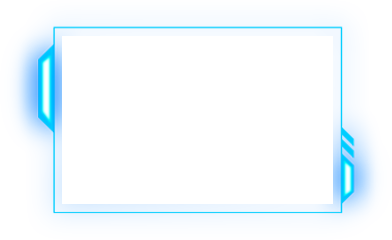
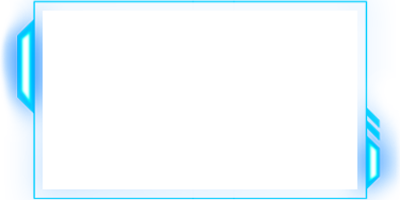
update design

Changed region(s): [[0.0, 0.0, 1.0, 1.0]]

diff --git a/index.html b/index.html
@@ -103,8 +103,8 @@
 </section>
 <!-- Banner End -->
 
-<!-- Card Start -->
-<section class="ngt-card">
+<!-- About Start -->
+<section class="ngt-about">
     <div class="container pt-5 pb-5 text-center">
         <p class="ngt-about-content">WE ARE CREATIVE AGENCY</p>
         <h1 class="ngt-about-header"><span class="ngt-primary-color ngt-jura">Top-rated</span> GRAPHIC DESIGN COMPANY</h1>
@@ -118,34 +118,87 @@
             <span class="ngt-primary-color">multi-disciplined</span> approach to build trust and understanding between you and your customers.
         </p>
         <div class="row text-start mt-4">
-            <div class="col-lg-4">
-                <div class="card">
-                    <div class="card-body">
-                        <h5 class="card-title">INTEGRATED SERVICES</h5>
-                        <p class="card-text">
+            <div class="col-xl-4 mb-4">
+                <div class="ngt-about-card">
+                    <div class="ngt-about-card-body">
+                        <h5 class="card-title ngt-card-title">INTEGRATED SERVICES</h5>
+                        <p class="card-text mt-2 ngt-card-content">
                             Our graphic design service offers the best services to the companies that need to support
                             their deals and have a solid benefit.
                             Our planners utilize most recent graphic design
                             software
                         </p>
-                        <a href="#" class="link-dark text-decoration-none">Learn More <i class="fa-solid fa-angle-right"></i></a>
+                        <div class="ngt-card-link">Learn More <i class="fa-solid fa-angle-right"></i></div>
                     </div>
                 </div>
             </div>
-            <div class="col-lg-4">
-                <div class="card">
-                    <div class="card-body">
-                        <img src="assets/images/about/brand-positioning-.png" class="img-fluid" alt=""/>
-                        <h5 class="card-title">
+            <div class="col-xl-4 mb-4">
+                <div class="ngt-about-card">
+                    <div class="ngt-about-card-body">
+                        <img src="assets/images/about/brand-positioning-.png" class="img-fluid mt-2 ngt-about-icon" alt=""/>
+                        <h5 class="mt-3 ngt-logo-card-title">
                             Logo & Brand Identity
                         </h5>
-                        <p>
+                        <p class="mt-1 ngt-card-content">
                             LOGO | BRAND STYLE | BUSINESS CARDS
                         </p>
                     </div>
                 </div>
             </div>
+            <div class="col-xl-4 mb-4">
+                <div class="ngt-about-card">
+                    <div class="ngt-about-card-body">
+                        <img src="assets/images/about/game-controller.png" class="img-fluid mt-2 ngt-about-icon" alt=""/>
+                        <h5 class="mt-3 ngt-logo-card-title">
+                            Gaming
+                        </h5>
+                        <p class="mt-1 ngt-card-content">
+                            GAME ART | GRAPHICS | ICON
+                        </p>
+                    </div>
+                </div>
+            </div>
+            <div class="col-xl-4 mb-4">
+                <div class="ngt-about-card">
+                    <div class="ngt-about-card-body">
+                        <img src="assets/images/about/improvement-.png" class="img-fluid mt-2 ngt-about-icon" alt=""/>
+                        <h5 class="mt-3 ngt-logo-card-title">
+                            Web & App Design
+                        </h5>
+                        <p class="mt-1 ngt-card-content">
+                            UI | UX | LANDING PAGE | BANNERS
+                        </p>
+                    </div>
+                </div>
+            </div>
+            <div class="col-xl-4 mb-4">
+                <div class="ngt-about-card">
+                    <div class="ngt-about-card-body">
+                        <img src="assets/images/about/social-media.png" class="img-fluid mt-2 ngt-about-icon" alt=""/>
+                        <h5 class="mt-3 ngt-logo-card-title">
+                            Digital Marketing
+                        </h5>
+                        <p class="mt-1 ngt-card-content">
+                            FACEBOOK | INSTAGRAM | YOUTUBE
+                        </p>
+                    </div>
+                </div>
+            </div>
+            <div class="col-xl-4 mb-4">
+                <div class="ngt-about-card">
+                    <div class="ngt-about-card-body">
+                        <img src="assets/images/about/laptop.png" class="img-fluid mt-2 ngt-about-icon" alt=""/>
+                        <h5 class="mt-3 ngt-logo-card-title">
+                            Art & Illustration
+                        </h5>
+                        <p class="mt-1 ngt-card-content" style="font-size: 13px">
+                            COMICS | PATTERN | PORTRAITS | CARTOONS
+                        </p>
+                    </div>
+                </div>
+            </div>
         </div>
+        <h1 class="ngt-about-header mt-4"><span class="ngt-jura">Hire a</span> DEDICATED DESIGNER <a href="#" class="btn btn-success ngt-about-btn">Hire now <i class="fa-solid fa-angle-right"></i></a></h1>
     </div>
 </section>
 <!-- Card End -->

diff --git a/assets/css/style.css b/assets/css/style.css
@@ -142,10 +142,11 @@ nav{
     color: #0dccff;
 }
 
-.ngt-card{
+.ngt-about{
     background-image: url("../images/bg/bg_2.jpg");
     background-size: cover;
     background-repeat: no-repeat;
+    opacity: 0.9;
 }
 
 .ngt-about-header{
@@ -160,9 +161,74 @@ nav{
 }
 
 .ngt-primary-color{
-    color: #0dccff;
+    color: #01e4df;
 }
 
 .ngt-jura{
     font-family: 'JuraBold';
+}
+
+.ngt-about-card{
+    border-image: url('../images/about/border.png') 45;
+    border-style: solid;
+    border-width: 12px 40px 14px 40px;
+}
+
+.ngt-about-card-body{
+    background: url('../images/about/border-bg.png') no-repeat;
+    background-size: cover;
+    padding: 10px 10px;
+    border-radius: 5px;
+    color: white;
+}
+
+.ngt-about-card-body:hover{
+    background: url('../images/about/integrated-service-border-bg.png') no-repeat;
+    background-size: cover;
+    color: black;
+}
+
+.ngt-about-card-body:hover .ngt-logo-card-title{
+    color: black;
+}
+
+.ngt-card-title{
+    font-family: 'OrbitronBlack';
+}
+
+.ngt-card-content{
+    font-family: 'JuraBold';
+    font-size: 14px;
+    font-weight: 900;
+}
+
+.ngt-card-link{
+    font-family: 'JuraBold';
+}
+
+.ngt-logo-card-title{
+    font-family: 'OrbitronBlack';
+    color: #01e4df;
+}
+
+.ngt-about-icon{
+    height: 85px;
+}
+
+.ngt-about-btn{
+    font-family: 'JuraBold';
+    border-radius: 50px;
+    border: none;
+    font-weight: 700;
+    font-size: 28px;
+    padding: 10px 55px;
+    background: url("../images/button/btn.png") no-repeat;
+    background-size: cover;
+    color: black;
+}
+
+.ngt-about-btn:hover{
+    background: url("../images/button/btn-hover.png") no-repeat;
+    background-size: cover;
+    color: black;
 }
